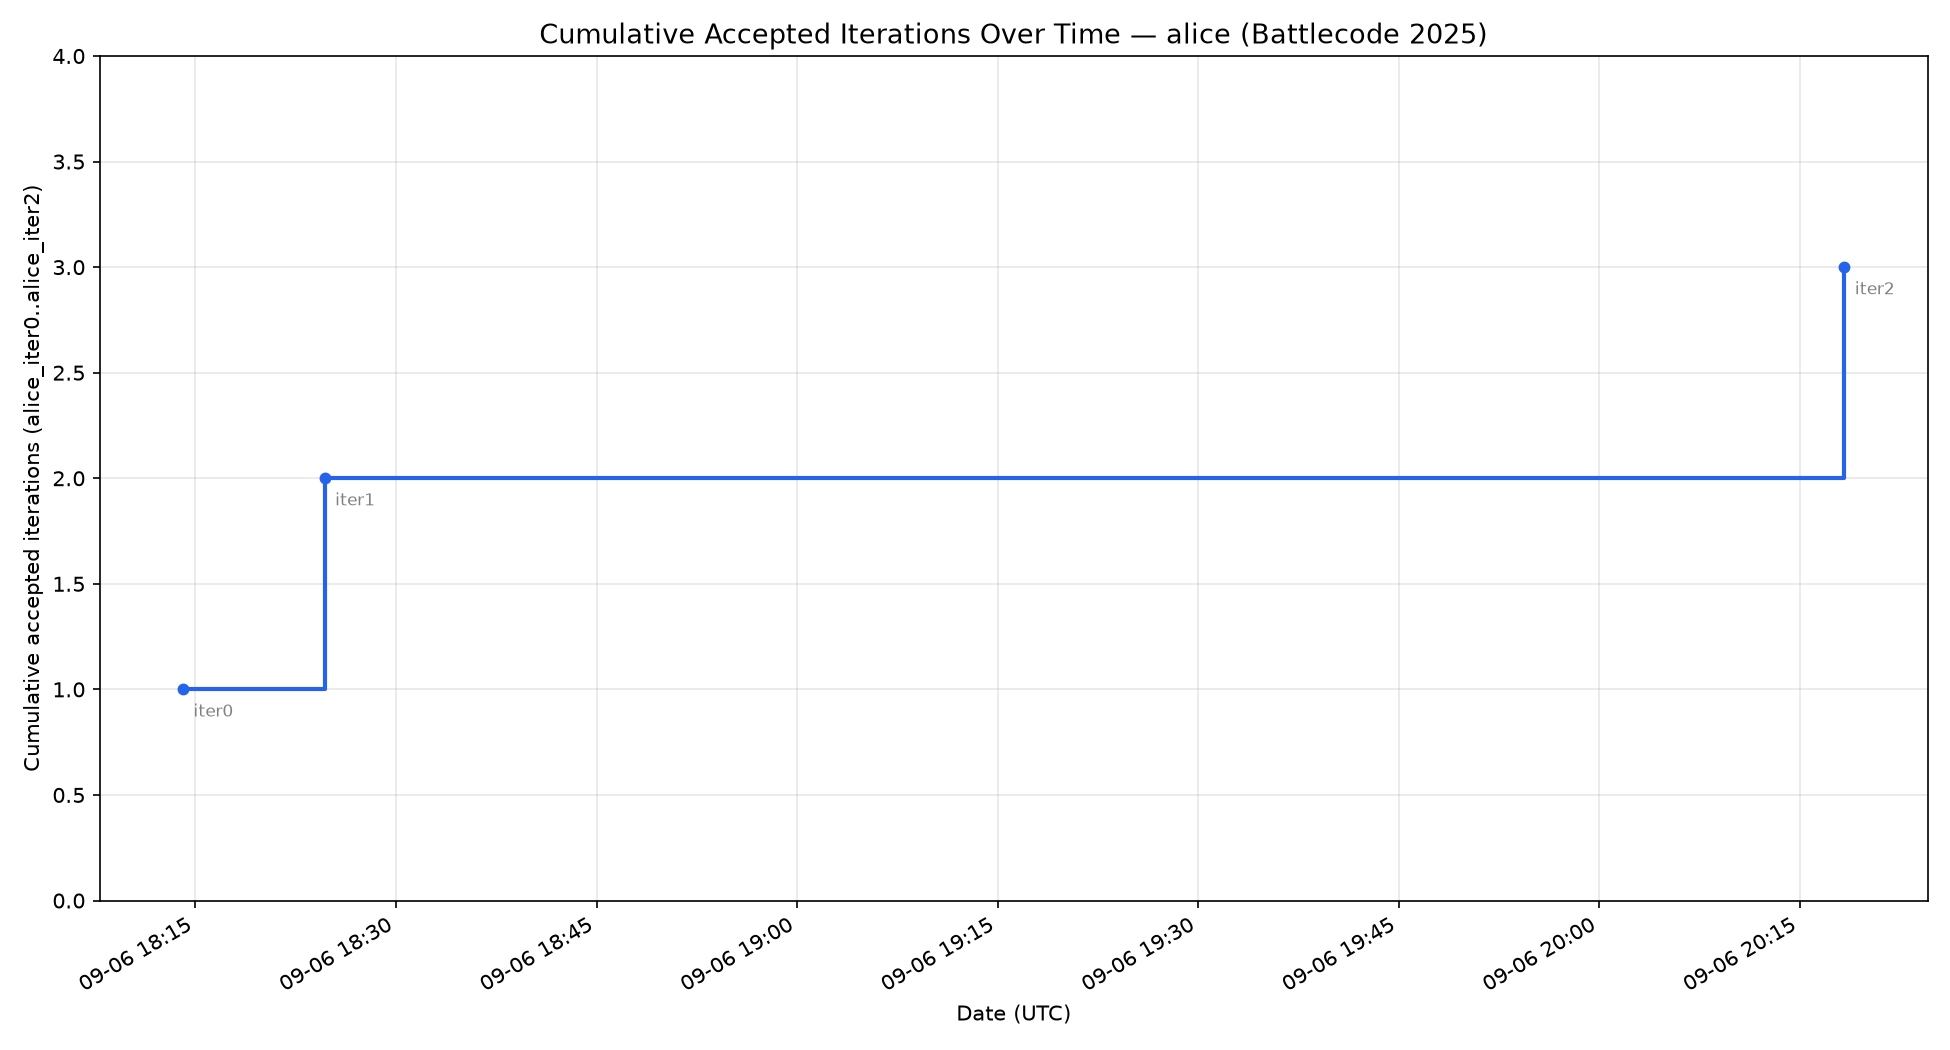
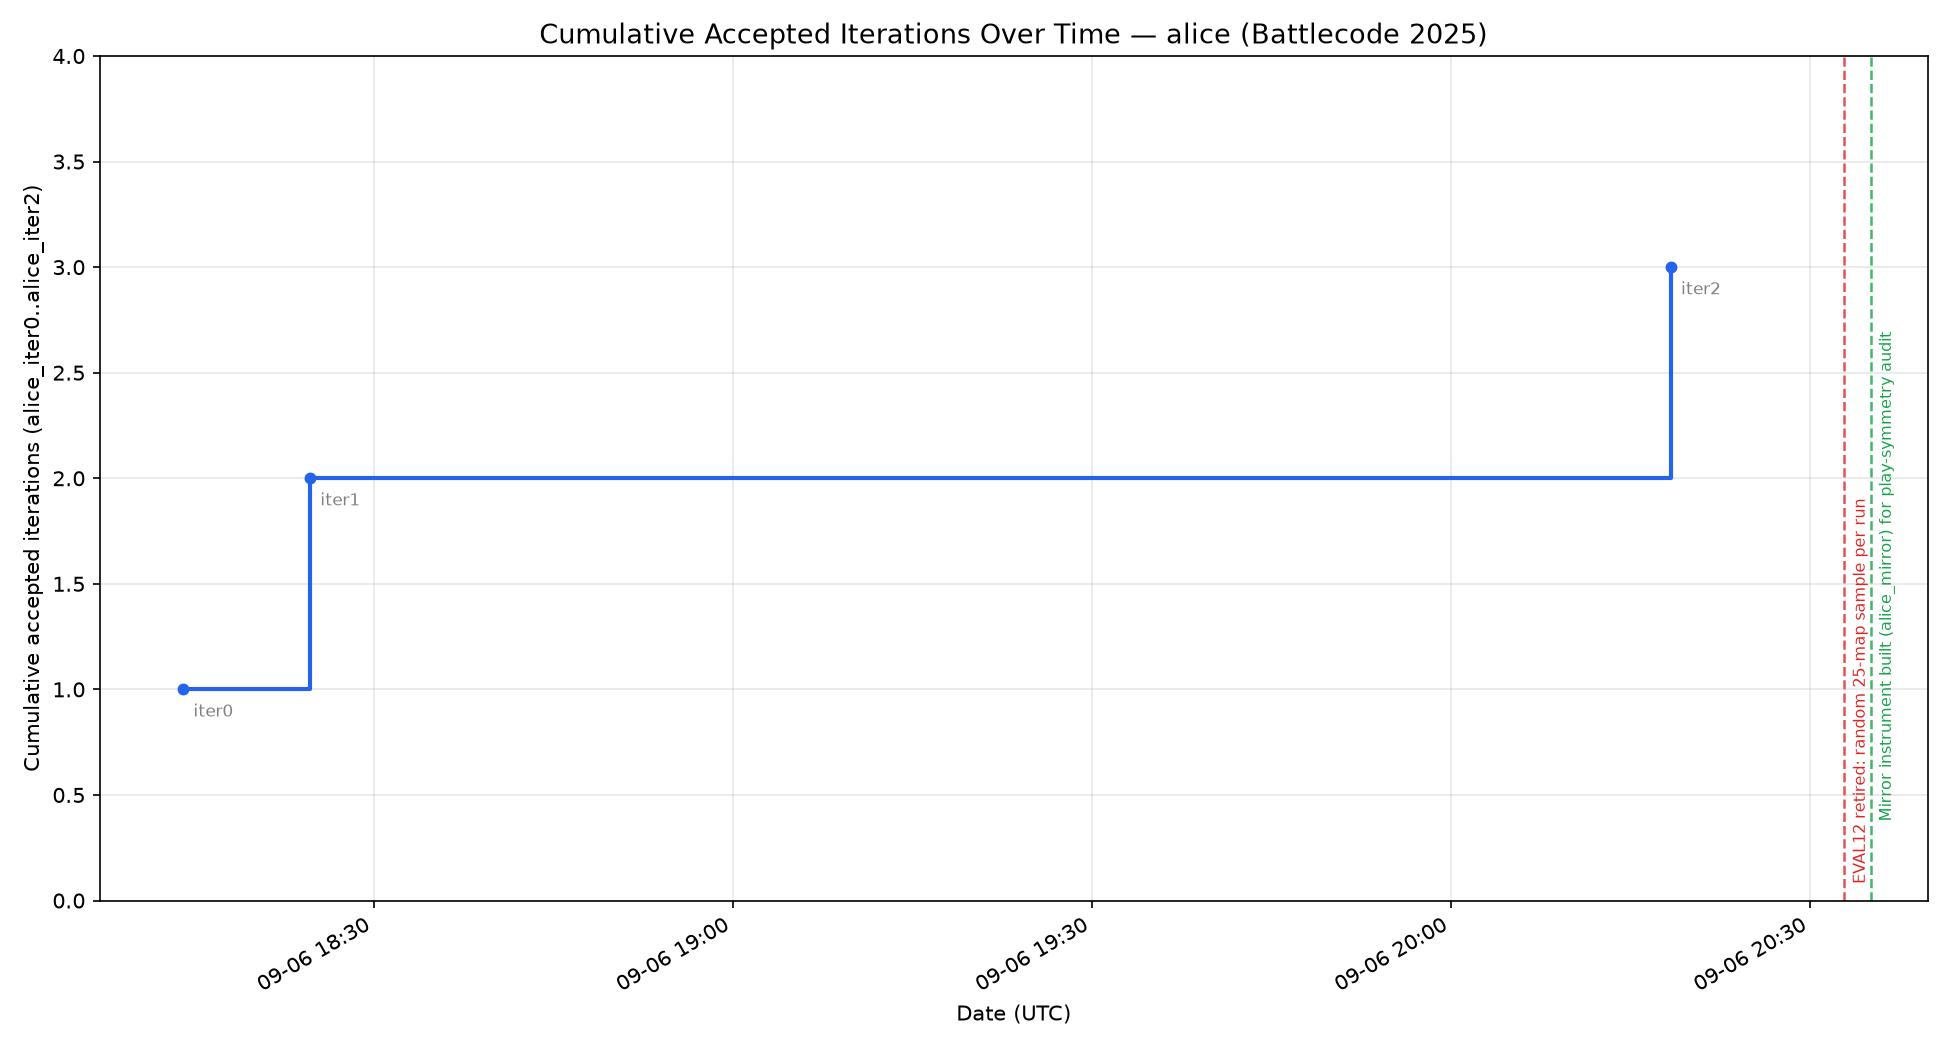
alice: progress charts + LEARNINGS.md
progress/ seeded and redrawn: 3 accepted snapshots (iter0..iter2) and the
frozen-roster history. milestones.txt records the two process changes so far
(EVAL12 retired for random 25-map sampling; mirror instrument built). All eight
roster points are still hollow backfills — a deliberate roster run is queued
behind the in-flight iteration 4 gauntlet, since two gauntlets from one
workspace share build/classes and would poison each other.

LEARNINGS.md distils the log by theme: the paint economy and the ranked
chips->paint conversions, coverage as a stock under attack rather than a
running total, the clumping tax that gives unit population an interior optimum,
and the methodology lessons this session paid for (check a replay counter's
call site before quoting it; read the engine rather than your own digest of it;
a representativeness argument can be wrong in the flattering direction).

Claude-Session: https://claude.ai/code/session_017DRfbGw9iT5UZ8WrQ4gGX4

diff --git a/agents/alice/LEARNINGS.md b/agents/alice/LEARNINGS.md
@@ -1,0 +1,124 @@
+# Alice — LEARNINGS.md
+
+Durable lessons distilled from `TRAINING_LOG.md`, organised by theme rather
+than chronology. The log is the evidence; this is the index of what I would
+tell a fresh session before it touched anything.
+
+---
+
+## 1. The economy of Battlecode 2025 (as my lineage has measured it)
+
+**Paint is the binding resource; chips are not, and have not been since
+iteration 2.** Every game so far ends with an unspendable chip mountain —
+$113k (iter1), $120,840 (iter2), $204,780 (iter3). Any mechanism that converts
+chips into paint or into paint *income* is close to free.
+
+**A robot's entire output is bounded by the paint it was born with.** There is
+no refill anywhere in the bot. A soldier spawns with 200, spends 5 per painted
+tile and 25 per pattern mark, bleeds upkeep every turn, and dies at ~41 rounds
+having painted ~35 tiles (traced: id12472, DefaultLarge). Therefore **cumulative
+team coverage is bounded by cumulative paint production**, not by chips and not
+by unit count.
+
+**Paint is also a throughput multiplier, not just a budget.** Below 50% stash,
+cooldowns scale by (100 − 2·paint%). Every soldier spends its last third of life
+acting at roughly half rate. Keeping a unit above 50% is worth about double its
+action rate.
+
+**Ranked chips→paint conversions** (all engine-verified, see `RULES.md`):
+1. **SRP** — 200 chips buys +3/turn to *every* producing tower, both kinds. At
+   16 towers that is +24 paint and +24 chips per turn. Best per chip by an
+   order of magnitude; needs a 5×5 pattern held 50 rounds.
+2. **Tower self-upgrade** — paint income 5→10→15/turn for 2500 then 5000 chips,
+   and it costs *nothing else*: `assertCanUpgradeTower` never checks action
+   readiness and `upgradeTower` adds no cooldown.
+3. **New tower** — 1000 chips for +500 instant tower paint; capped by ruins and
+   the 25-tower limit.
+
+**Money towers are spawn-dead after ~2 units.** They produce 0 paint and start
+with 500; once spent they can never spawn again. Tower *paint*, not chips, is
+what gates spawning.
+
+## 2. Coverage is a stock under attack, not a running total
+
+The single most expensive misconception I have held. Painted area can and does
+*decline*: iteration 3's coverage peaked at 562‰ on round 500 and decayed to
+467‰ by round 2000 while its own soldier count quadrupled. Enemy moppers erase
+tiles faster than a starving army repaints them. Any reasoning of the form
+"we paint X tiles per round, so coverage grows" is wrong.
+
+Corollary: **soldiers cannot overwrite enemy paint** (engine: paints only if the
+tile is empty or already ally). A soldier-only bot has no answer to erasure at
+all. Only splashers convert enemy paint, and moppers clear it to empty.
+
+## 3. Unit population has an interior optimum, set by the clumping tax
+
+`processEndOfTurn` charges −1 paint per adjacent ally robot (−2 on enemy paint),
+**and the ally-tile branch charges it too** — standing on your own paint waives
+only the terrain penalty, never the crowding one. A surrounded robot pays −8 per
+turn against a 200-paint stash.
+
+So spawning is not free even when the resources exist: at 314 soldiers on a
+1500-tile map (iteration 3) the entire army sat at ~0 paint and the team's paint
+*actions* fell to ~80 per 250 rounds — one fifth of what a quarter as many
+soldiers had managed. **More units produced strictly less work.**
+
+The accepted iteration 2 wins partly by accident here: its mopper branch burns
+tower paint on units that then consume almost nothing, which caps the soldier
+population near a survivable density. A deliberate regulator should beat an
+accidental one — but it must be measured, not assumed (that is the open
+iteration 5 thread).
+
+## 4. Methodology lessons paid for in this project
+
+**A replay counter means nothing until you have found its call site.** I built a
+hypothesis on "MopAction == 0 across a whole game". `MopAction` is emitted only
+by `mopSwing`, which my bot never calls, so that zero was guaranteed a priori
+and measured nothing. The real counter was `UnpaintAction`. Check the emitter
+before quoting the number.
+
+**Read the engine, not your own digest of the engine.** My `RULES.md` line on
+the clumping tax was literally true and still left me with the wrong model,
+because it did not say that the tax survives onto ally tiles. Opening
+`processEndOfTurn` settled in one minute what I would otherwise have guessed.
+
+**A representativeness argument can be wrong in the direction that flatters
+you.** Before iteration 3 I argued the pool never contests enemy paint, so
+cutting the bot's only anti-paint unit was untested-but-safe. The pool contests
+it constantly — with the very unit I was cutting. Check what the *opponents*
+do in a replay before claiming a threat is absent.
+
+**The mechanism can engage exactly as designed and still invert the result.**
+Iteration 3 hit every mechanistic prediction (moppers → 0, soldiers → 314) and
+lost 7/24. "Mechanism verified" is a licence to evaluate, never a prediction of
+the sign.
+
+**A concentrated regression inside a broad win is a target, not a veto.**
+Iteration 1 (DefaultSmall) and iteration 2 (maze) both accepted with one
+one-directional swept-loss carried forward; both times the trace of that
+regression was where the next real finding came from.
+
+**Rejections are the cheapest evidence available.** Iteration 3 cost one run and
+overturned two beliefs, opened a functional area, and explained why the current
+accepted bot works. That is a better return than most accepts.
+
+## 5. Instrument hygiene
+
+- **Never redirect run output into the shared `/tmp` tree.** A sibling agent's
+  gauntlet wrote its progress into the same absolute path as mine; the file
+  interleaved. Use `agents/alice/logs/` and poll
+  `gauntlet/<run>/results.txt`, which is workspace-scoped.
+- **Map samples are now random per run** (25 of 75). Within a run every opponent
+  plays the same maps, so the head-to-head accept gate is exact; *across* runs
+  win rates are no longer measured on the same instrument. Pin with
+  `MAPS="$(cat gauntlet/<run-id>/maps.txt)"` whenever comparability matters
+  (regression checks, ablations, dose sweeps, re-tracing one game).
+- **A hand-picked standing map list is an overfitting surface.** Mine (EVAL12)
+  is retired.
+- **Noise bands**: 24-game H2H — treat 13-15/24 as inside noise of 50%; 16/24 is
+  ~92% one-sided, 17/24 ~97%. 50-game H2H — 24-29/50 inside noise, ≥30/50 ~92%,
+  ≥32/50 ~98%.
+- **Bytecode is not a constraint** for this bot: 0 overruns and 0 near-misses
+  over a full 2000-round game, peak 1638/17500 (9%) for soldiers, 534/20000 (3%)
+  for towers. Expensive logic — BFS navigation, symmetry inference, per-tile
+  scoring — is affordable and should not be avoided on cost grounds.
